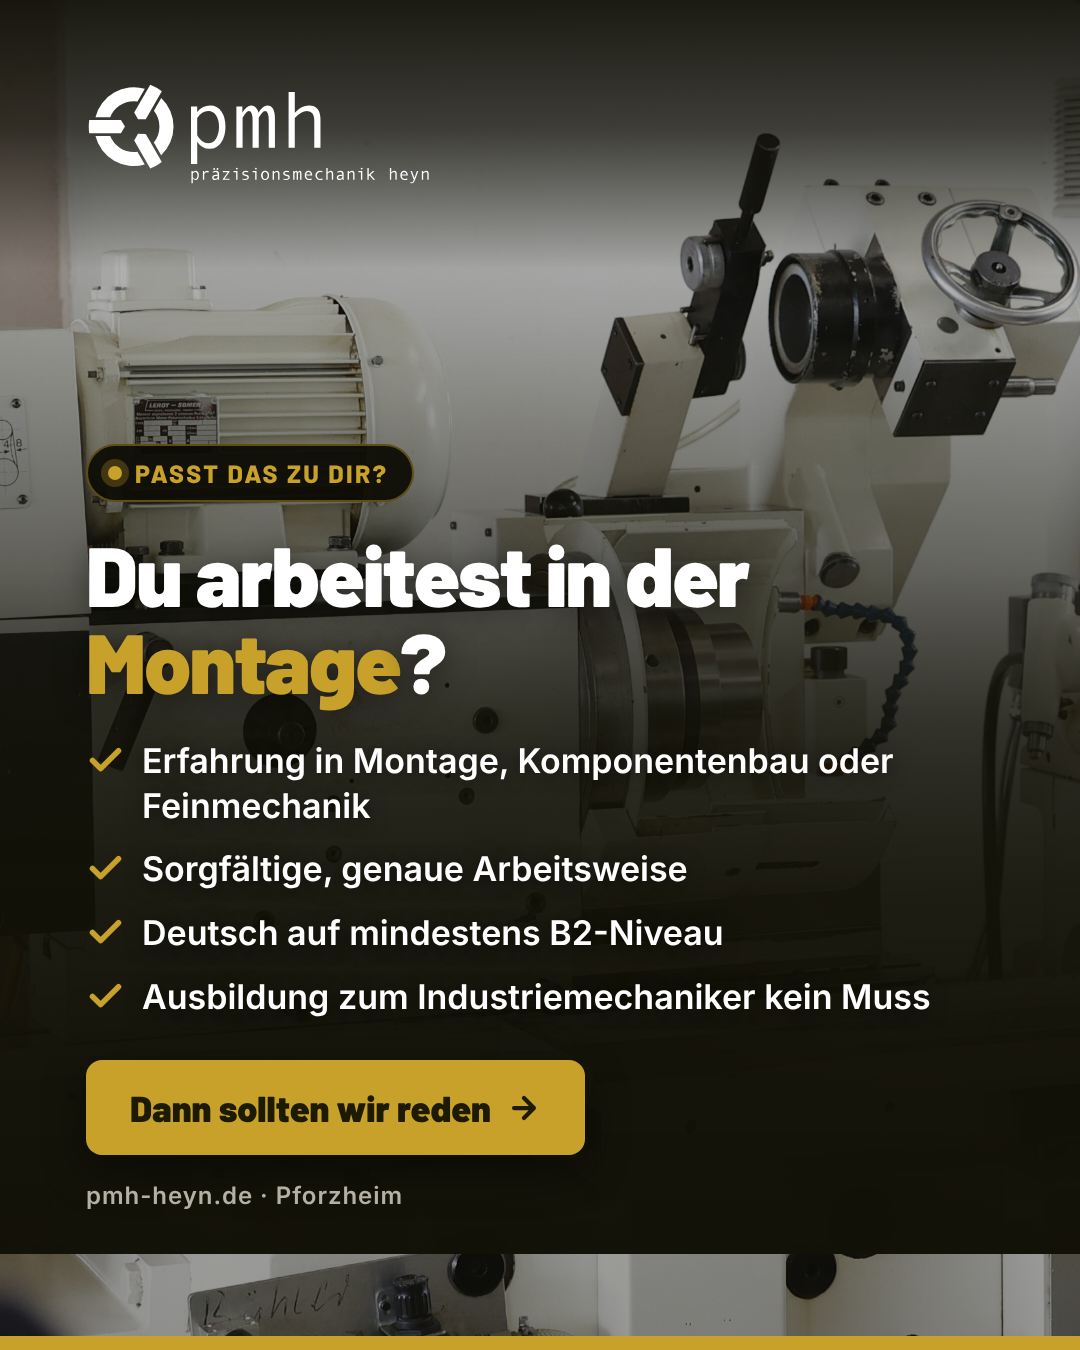
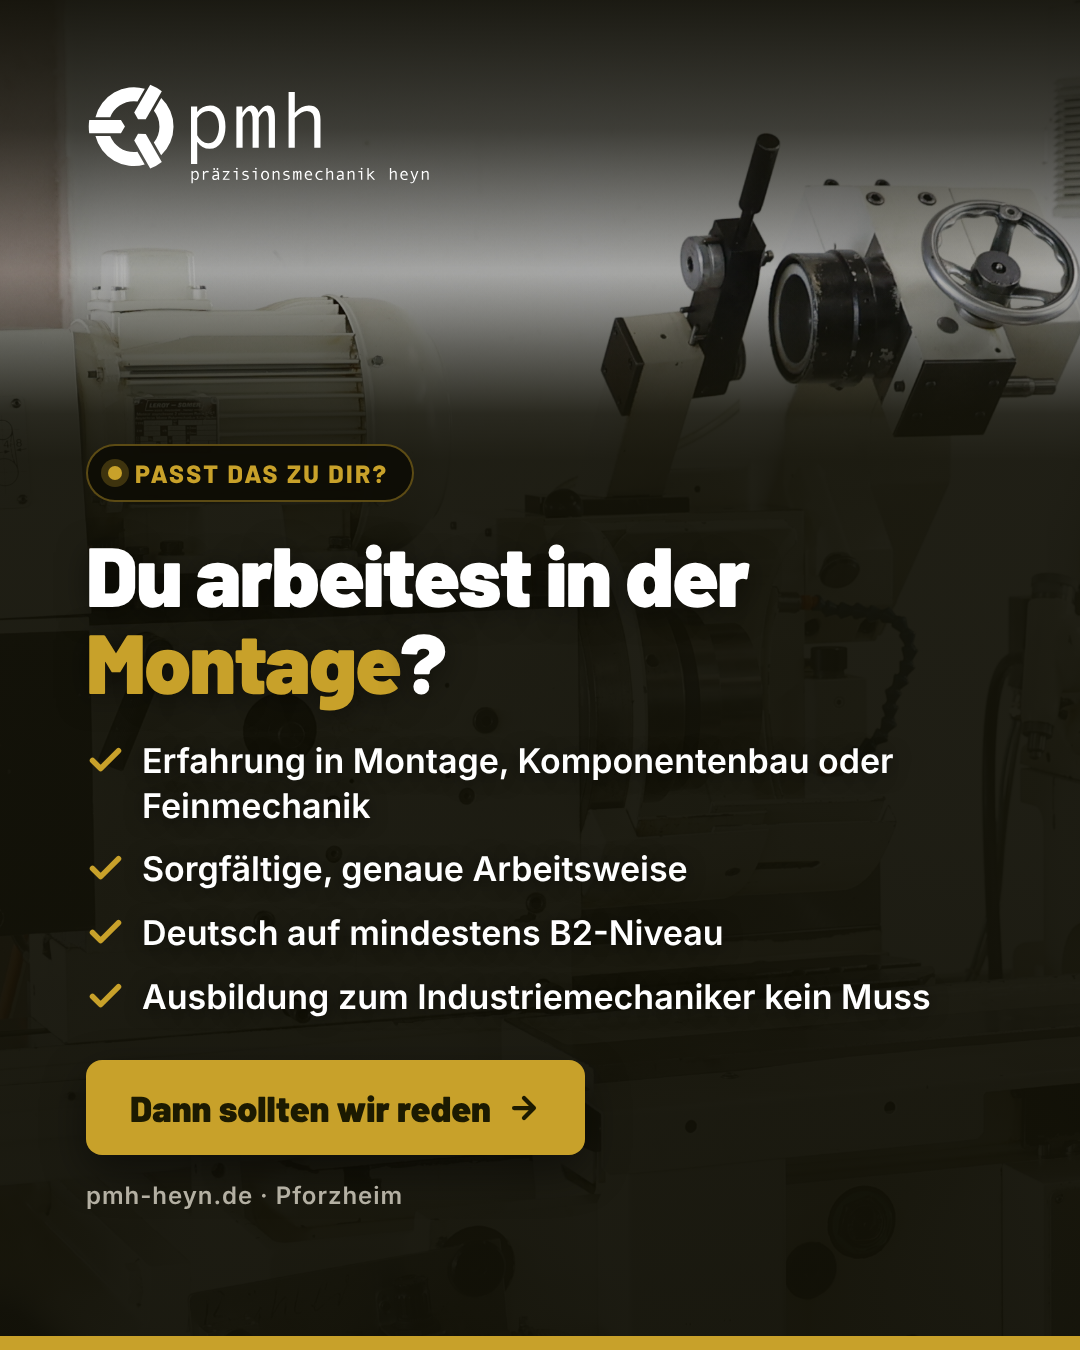
Creatives: dunkle Textflaeche laeuft bis zur Unterkante durch
Die dunkle Flaeche hinter dem Text endete dort, wo der Text endete.
Darunter wurde das Foto wieder hell - mit harter Kante. Das sah aus wie
ein zweites, angeschnittenes Bild. Im 9:16 war der Effekt deutlich, im
4:5 als schmaler Streifen am unteren Rand.

.mitte zieht sich jetzt per negativem margin-bottom bis zur Unterkante
des Creatives. Die Verlaufsstops stehen dabei in Pixeln statt Prozent,
weil die Hoehe des Blocks von der Textmenge abhaengt.

Fussraum im 9:16 von 400 auf 330 px, damit unten nicht zu viel leere
Flaeche steht; der Textblock bleibt klar oberhalb der Bedienleiste von
Stories und Reels.

Messung nachgezogen: die Inline-SVG der Bildmarke wurde beim Ausblenden
nicht erfasst, dadurch wurde die Schrift selbst statt ihres Untergrunds
gemessen. Alle 15 Bilder bestehen jetzt sauber, schwaechstes Element
3,12:1 (Logo, Grenze 3,0), schwaechster Text 7,88:1.

Claude-Session: https://claude.ai/code/session_01QJuqWpTtfjU9tPqPCfDc9Q

Changed region(s): [[0.0, 0.2178, 1.0, 0.5289], [0.0, 0.9022, 1.0, 0.9956]]

diff --git a/creatives/README.md b/creatives/README.md
@@ -41,7 +41,13 @@ dunklen Pill, das ihren Untergrund selbst mitbringt.
 **Der Textblock braucht seinen eigenen Schleier.** Wo er beginnt, hängt von
 der Textmenge ab – ein Verlauf im Canvas-Raster trifft ihn mal und mal
 nicht. `.mitte` trägt den Verlauf jetzt selbst, der Aufblendbereich liegt
-komplett im `padding-top`.
+komplett im `padding-top`, und die Stops stehen in Pixeln statt Prozent.
+
+**Der Schleier muss bis zur Unterkante durchlaufen.** Sonst endet die dunkle
+Fläche dort, wo der Text endet, und darunter wird das Foto wieder hell – das
+sieht aus wie ein zweites, angeschnittenes Bild. Im 9:16 war der Effekt
+deutlich (330 px Fußraum), im 4:5 als schmaler Streifen. `.mitte` zieht sich
+jetzt per negativem `margin-bottom` bis zum unteren Rand.
 
 Geprüft wird das nicht per Augenmaß:
 
